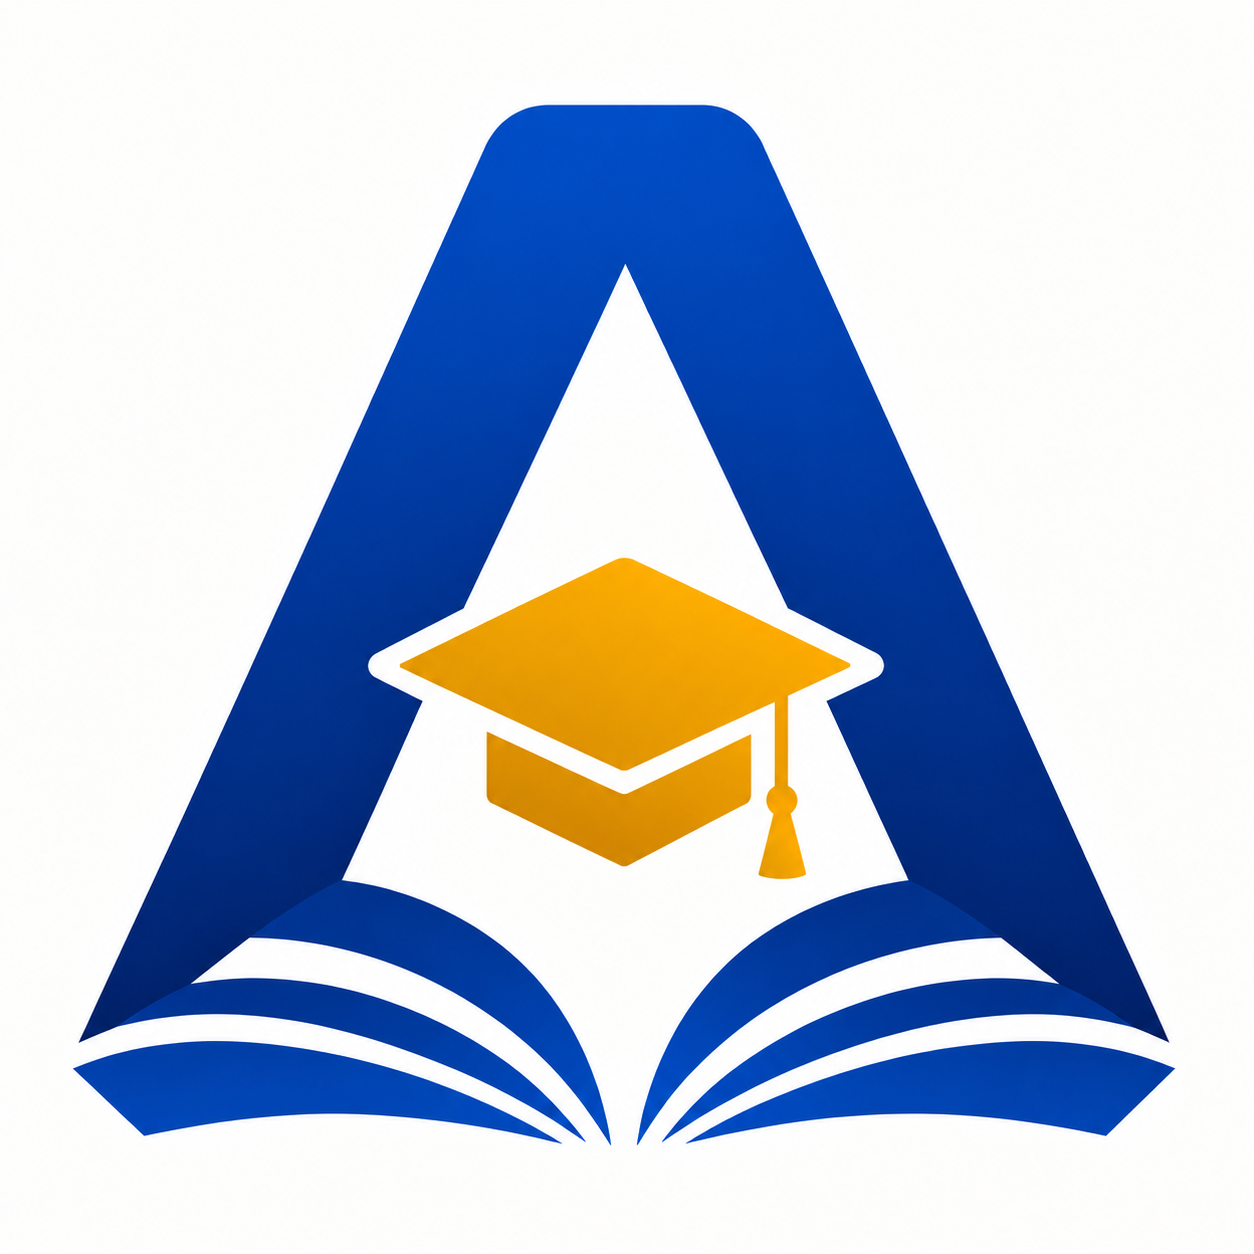
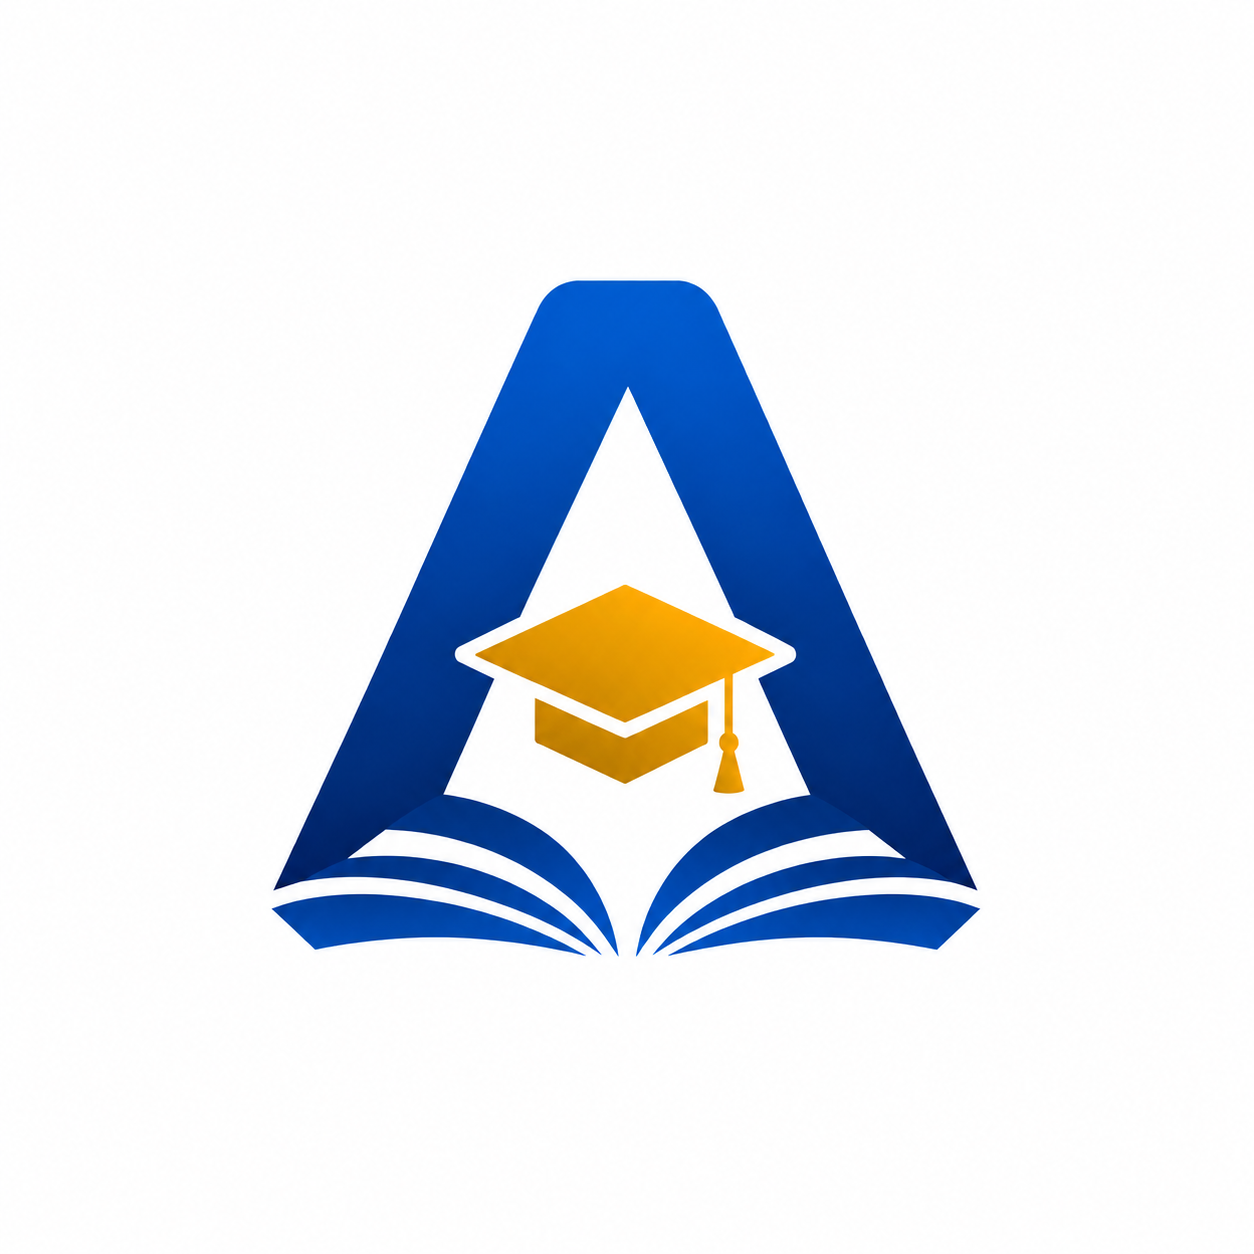
Déploiement des dernières mises à jour

diff --git a/src/App.tsx b/src/App.tsx
@@ -5205,7 +5205,7 @@ function ControlModule({
             { label: "Catégorie", value: expense.category },
             { label: "Montant", value: formatMoney(expense.amount) },
             { label: "Bénéficiaire / fournisseur", value: beneficiary || "-" },
-            { label: "Utilisateur", value: expense.cashierName || "-" },
+            { label: "Caissier", value: expense.cashierName || "-" },
             { label: "Mode de paiement", value: paymentMethod || "-" },
             { label: "Référence / pièce", value: reference || "-" },
           ]),